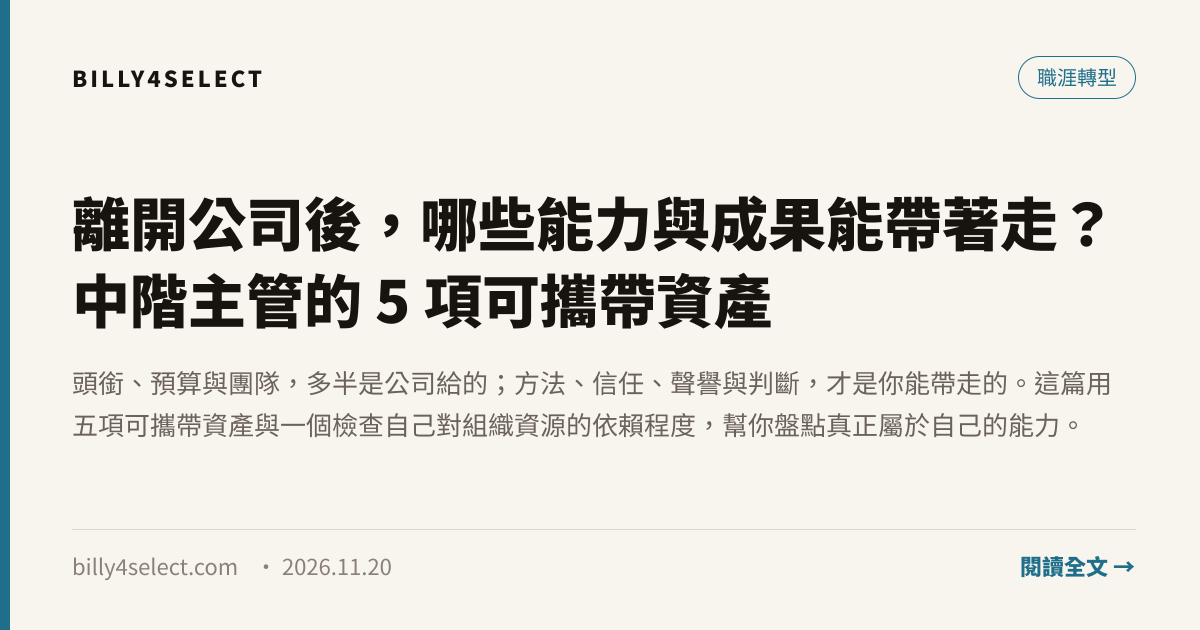
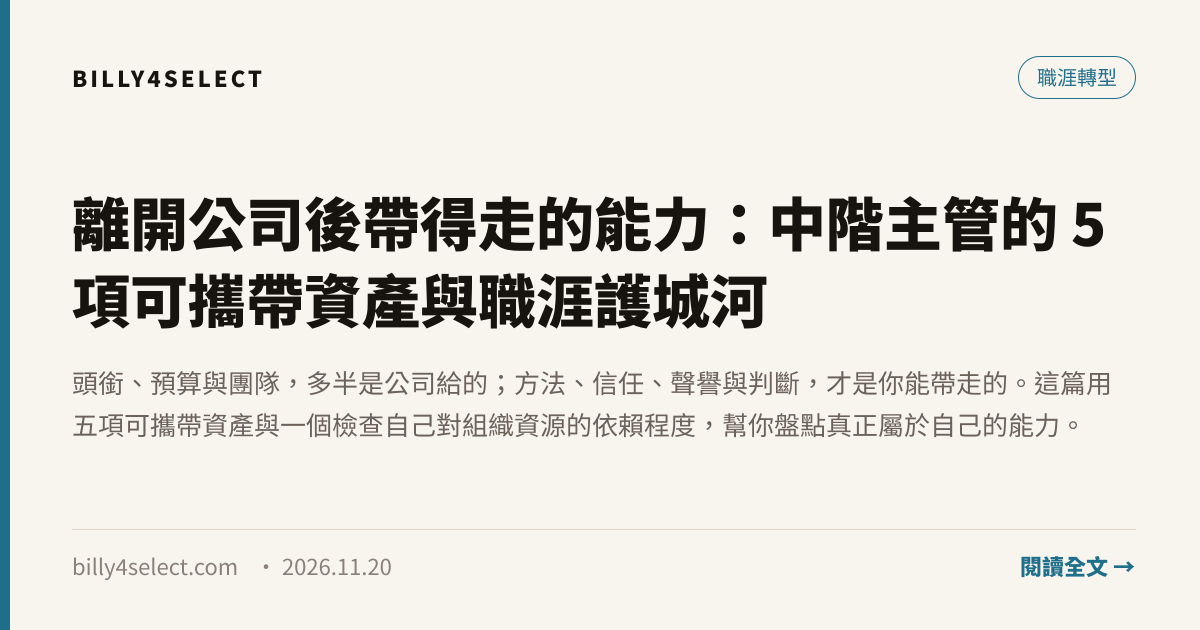
SEO：第四批 11 篇職涯文章標題依 Google 前三名實測改寫

Changed region(s): [[0.0617, 0.3016, 0.925, 0.5429]]

diff --git a/src/content/blog/mid-career-portable-assets.md b/src/content/blog/mid-career-portable-assets.md
@@ -1,5 +1,5 @@
 ---
-title: "離開公司後，哪些能力與成果能帶著走？中階主管的 5 項可攜帶資產"
+title: "離開公司後帶得走的能力：中階主管的 5 項可攜帶資產與職涯護城河"
 description: 頭銜、預算與團隊，多半是公司給的；方法、信任、聲譽與判斷，才是你能帶走的。這篇用五項可攜帶資產與一個檢查自己對組織資源的依賴程度，幫你盤點真正屬於自己的能力。
 publishedDate: 2026-11-20T22:00:00Z
 author: 比利陳 Billy Chen

diff --git a/src/content/blog/career-opportunity-cost-decision.md b/src/content/blog/career-opportunity-cost-decision.md
@@ -1,5 +1,5 @@
 ---
-title: "面對新的工作機會，怎麼判斷值不值得？把看得見與看不見的成本都算進去"
+title: "轉職機會成本怎麼評估？面對新工作值不值得，把看不見的成本都算進去"
 description: "升遷、轉職、接案或創業都有機會與代價。從收入、學習、時間、家庭、風險與可逆性，建立更貼近個人現況的職涯決策方式。"
 publishedDate: 2026-11-25T09:00:00Z
 author: 比利陳 Billy Chen

diff --git a/src/content/blog/middle-manager-transition-to-ai-curator-3-stages.md b/src/content/blog/middle-manager-transition-to-ai-curator-3-stages.md
@@ -1,5 +1,5 @@
 ---
-title: "中階主管在 AI 時代怎麼調整角色？從理解任務到重新分配工作"
+title: "中階主管 AI 轉型怎麼做？AI 時代的角色調整與 3 個階段"
 description: AI 工具進入團隊後，中階主管需要理解工作流程、設定品質標準並處理責任分工。本文整理主管可以逐步開始的幾個方向，不把單一新職稱當成轉型答案。
 publishedDate: 2026-04-10T08:30:15Z
 updatedDate: 2026-11-26T10:00:00Z

diff --git a/src/content/blog/learn-new-field-with-ai-30-days.md b/src/content/blog/learn-new-field-with-ai-30-days.md
@@ -1,5 +1,5 @@
 ---
-title: "如何用 AI 學新領域？從陌生到能交付的 30 天路徑"
+title: "用 AI 學新領域：從陌生到能交付的 30 天學習計畫"
 description: 用 AI 學習很容易變成大量收藏與閱讀，卻沒有真正學會。這篇把學習拆成四週：定義交付、建立問題地圖、主動練習、做出作品，讓你在 30 天內從陌生走到能交付。
 publishedDate: 2026-11-20T03:00:00Z
 author: 比利陳 Billy Chen

diff --git a/src/content/blog/personal-knowledge-system-minimal.md b/src/content/blog/personal-knowledge-system-minimal.md
@@ -1,5 +1,5 @@
 ---
-title: "個人知識管理怎麼做？收集、理解到輸出的最小系統"
+title: "個人知識管理（PKM）怎麼做？收集、理解到輸出的最小系統"
 description: 知識管理不是把資料收集得很完整，而是讓資料在需要時能變成輸出。這篇用收集、理解、輸出三層，建立一個不需要複雜工具也能持續運作的系統。
 publishedDate: 2026-11-20T07:00:00Z
 author: 比利陳 Billy Chen

diff --git a/src/content/blog/ai-era-capability-map.md b/src/content/blog/ai-era-capability-map.md
@@ -1,6 +1,6 @@
 ---
 
-title: "AI 時代該培養什麼能力？從操作工具到解決問題"
+title: "AI 時代需要什麼能力？從操作工具到解決問題的職場能力地圖"
 description: "AI 工具更新很快，單一工具的熟練度可能很快折舊。值得長期投資的能力，包含理解問題、操作與驗證工具，以及持續學習和整合工作。"
 publishedDate: 2026-11-20T01:00:00Z
 updatedDate: 2026-11-26T09:00:00Z

diff --git a/src/content/blog/capability-inventory-workshop.md b/src/content/blog/capability-inventory-workshop.md
@@ -1,5 +1,5 @@
 ---
-title: "怎麼做能力盤點？寫出 T 型能力與可遷移技能的工作坊"
+title: "能力盤點怎麼做？T 型能力與可遷移技能的盤點工作坊"
 description: 能力盤點不是列履歷，而是找出你能帶到下一個角色的東西。這篇用一個 60 分鐘的工作坊流程，幫你整理深度、廣度、可遷移技能與具體證據。
 publishedDate: 2026-11-20T10:00:00Z
 author: 比利陳 Billy Chen

diff --git a/src/content/blog/judgment-in-ai-era.md b/src/content/blog/judgment-in-ai-era.md
@@ -1,6 +1,6 @@
 ---
 
-title: "AI 時代如何培養判斷力？從問題、證據到後果"
+title: "AI 時代如何培養判斷力？從問題、證據到後果的決策訓練"
 description: "AI 能快速提供摘要、建議與方案，但答案看起來完整，不代表它適合當下的情境。判斷力需要處理問題定義、證據可信度、反例與決策後果。"
 publishedDate: 2026-11-20T12:00:00Z
 updatedDate: 2026-11-26T09:00:00Z

diff --git a/src/content/blog/senior-employees-ai-upskilling-strategy-not-replaced.md b/src/content/blog/senior-employees-ai-upskilling-strategy-not-replaced.md
@@ -1,5 +1,5 @@
 ---
-title: "AI 會取代我的工作嗎？資深員工可以怎麼重新定位"
+title: "AI 會取代我的工作嗎？資深員工不被取代的能力與重新定位方法"
 description: >-
   當 AI 開始處理你做了十幾年的事，焦慮是正常的。但『取代』並非一夕發生，而是一個緩慢的重新定義過程。本文分享三個方向，教你如何從執行者轉型為 AI
   時代的價值定義者。

diff --git a/src/content/blog/deliberate-practice-knowledge-work.md b/src/content/blog/deliberate-practice-knowledge-work.md
@@ -1,5 +1,5 @@
 ---
-title: "知識工作如何刻意練習？從回饋迴路到作品集"
+title: "知識工作如何刻意練習？寫作與提案從回饋迴路到作品集"
 description: 知識工作很難練習，因為沒有標準答案、回饋又慢。這篇把寫作、分析與提案拆成可重複的子技能，用回饋迴路與作品集，讓經驗真正變成能力。
 publishedDate: 2026-11-20T11:00:00Z
 author: 比利陳 Billy Chen

diff --git a/src/content/blog/ai-data-analysis-human-ai-collaboration-professionalism.md b/src/content/blog/ai-data-analysis-human-ai-collaboration-professionalism.md
@@ -1,5 +1,5 @@
 ---
-title: "用 AI 做數據分析，怎麼保留自己的專業判斷？"
+title: "PM 用 AI 做數據分析怎麼避免誤判？保留專業判斷的作法"
 description: "AI 可以協助清理資料、計算與整理報告，但分析結果仍需要人理解與驗證。本文拆解問題定義、計算檢查與結論判斷三個人機協作環節。"
 publishedDate: 2026-04-09T09:20:15Z
 author: 比利陳 Billy Chen
